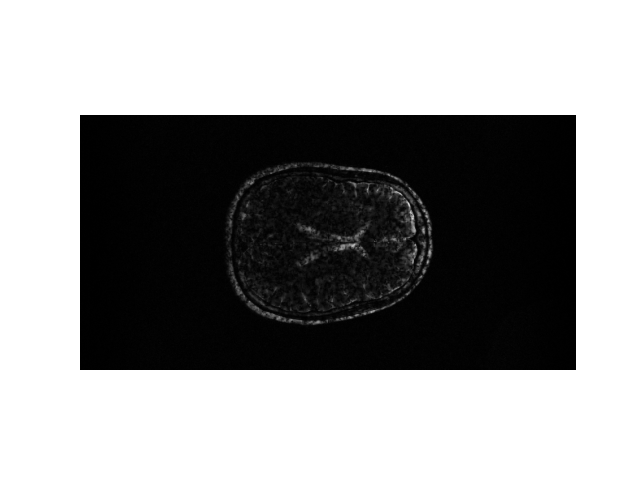
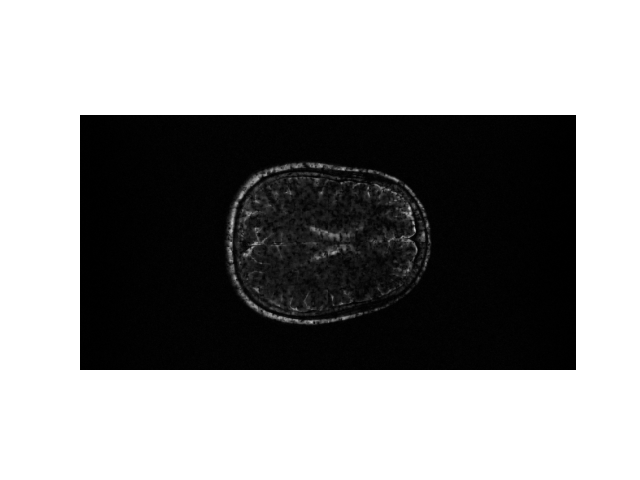
smaps conj error

Changed region(s): [[0.3438, 0.3438, 0.6875, 0.6875]]

diff --git a/my_CDLNet/mri_utils.py b/my_CDLNet/mri_utils.py
@@ -16,7 +16,7 @@ def dft_matrix(N):
 def mri_encoding(x, acceleration_map, smaps):
     # We take an acceleration_map to be a row-removed identity matrix corresponding to how many lines in kspace we keep [N x N]
     # We take a sensitivity map and assume it performs elementwise multiplication in the image domain [C x N x N]
-    x_coils = smaps[:, :]* x[None, :, :]
+    x_coils = smaps[:, :].conj()* x[None, :, :]
     # x_coils is C x N x N
     y_coils = (fft.fft2(x_coils, norm = 'ortho'))
     # y_coils is C x N x N
@@ -31,7 +31,7 @@ def mri_decoding(y, acceleration_map, smaps):
     # Apply ifft2
     x_coils = (fft.ifft2(y, norm = 'ortho'))
     # Coil combination
-    x = torch.einsum("ijk, ijk -> jk", smaps.conj(), x_coils)
+    x = torch.einsum("ijk, ijk -> jk", smaps, x_coils)
     return x
 
 
